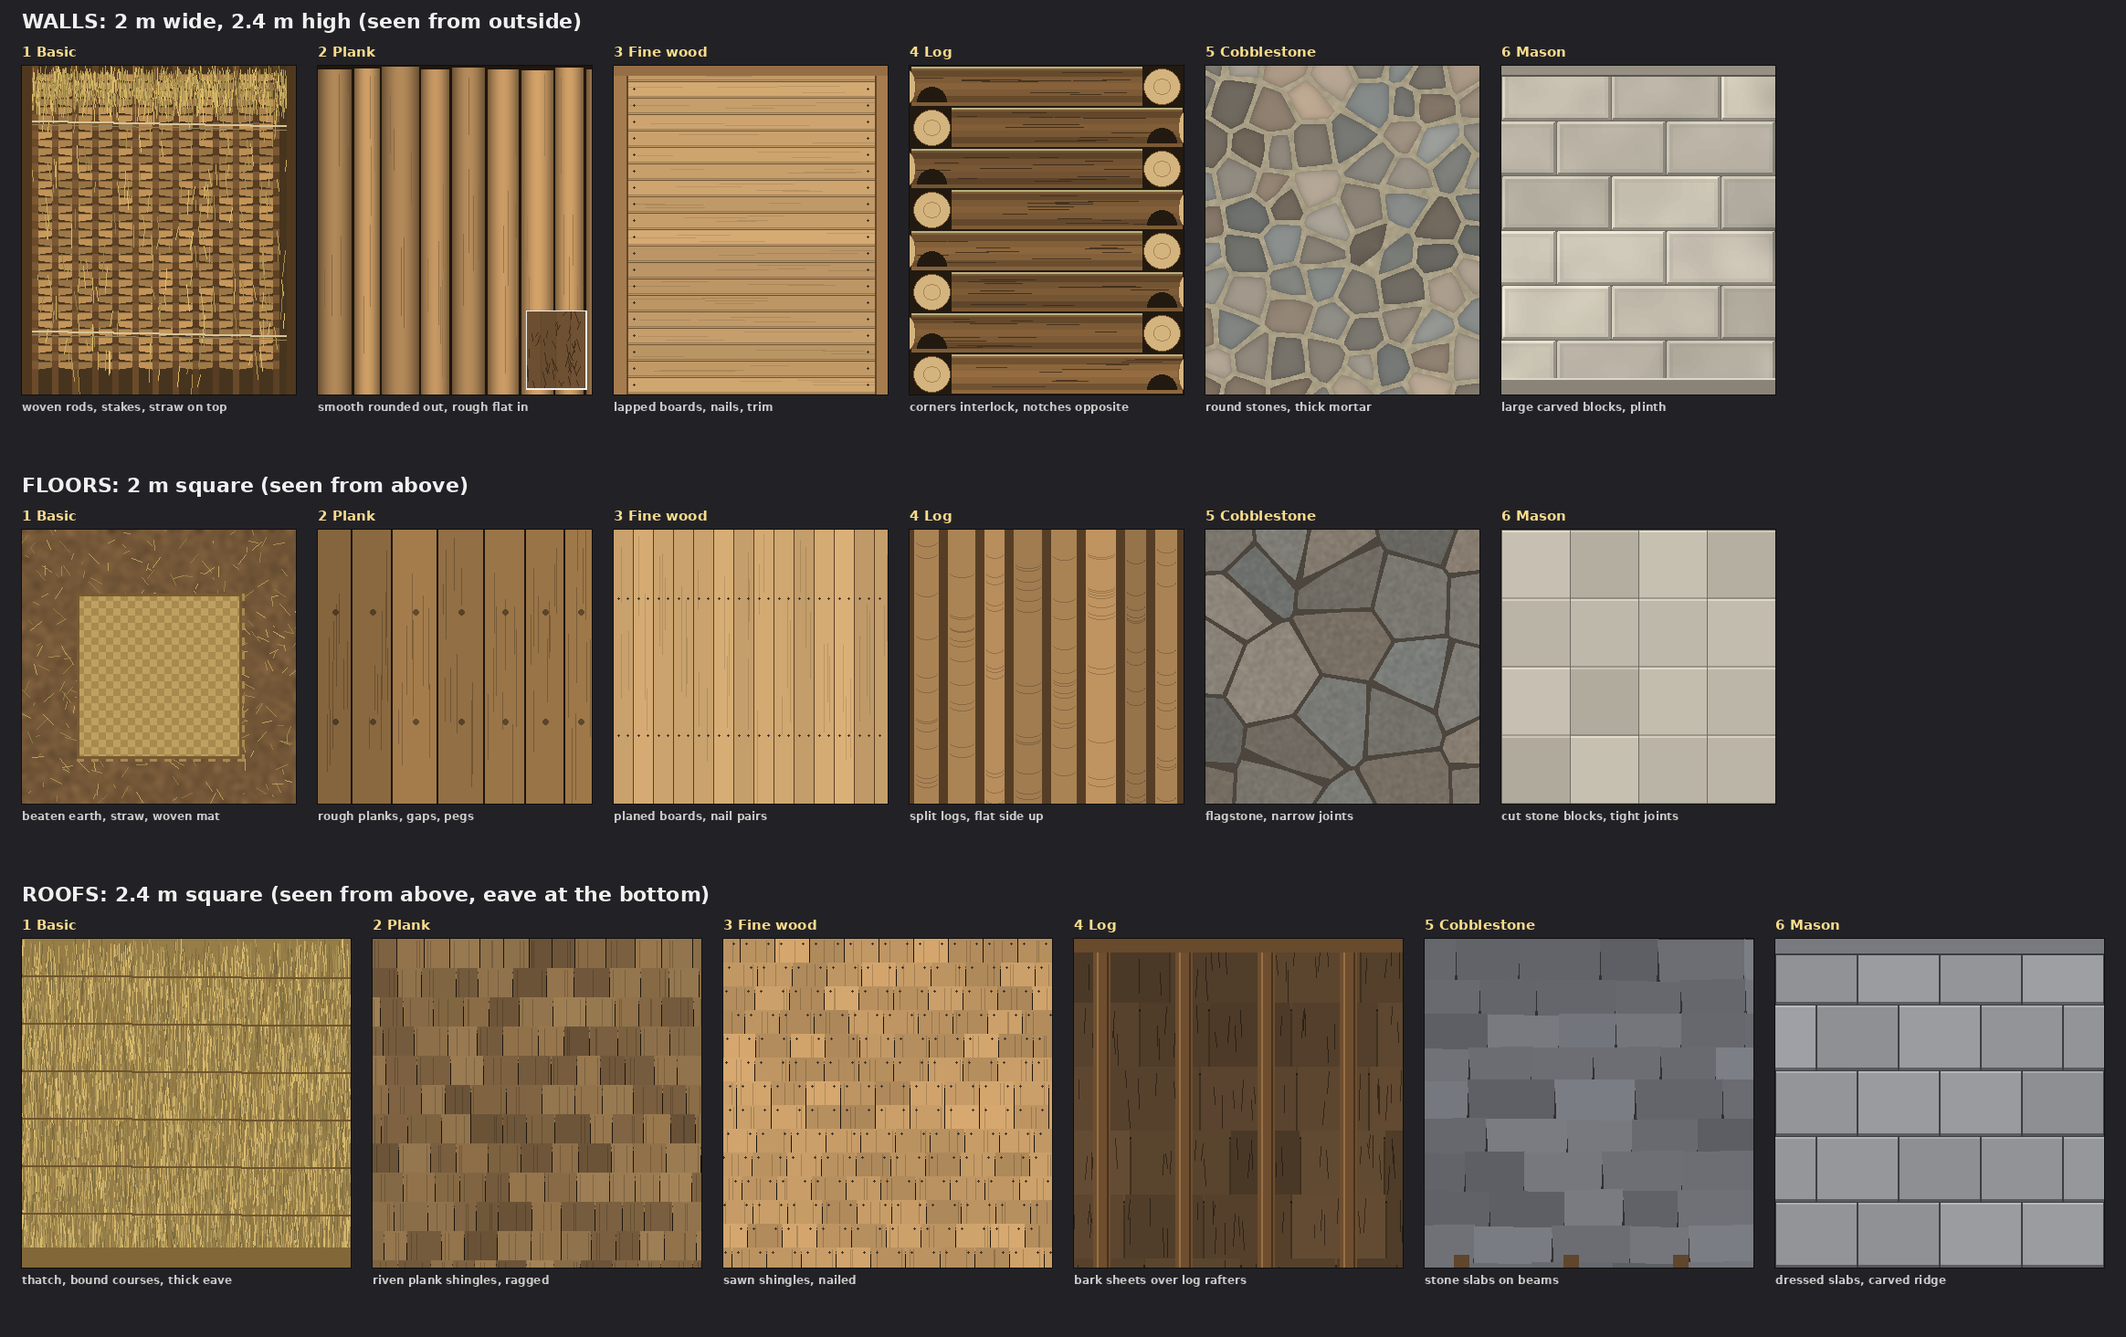
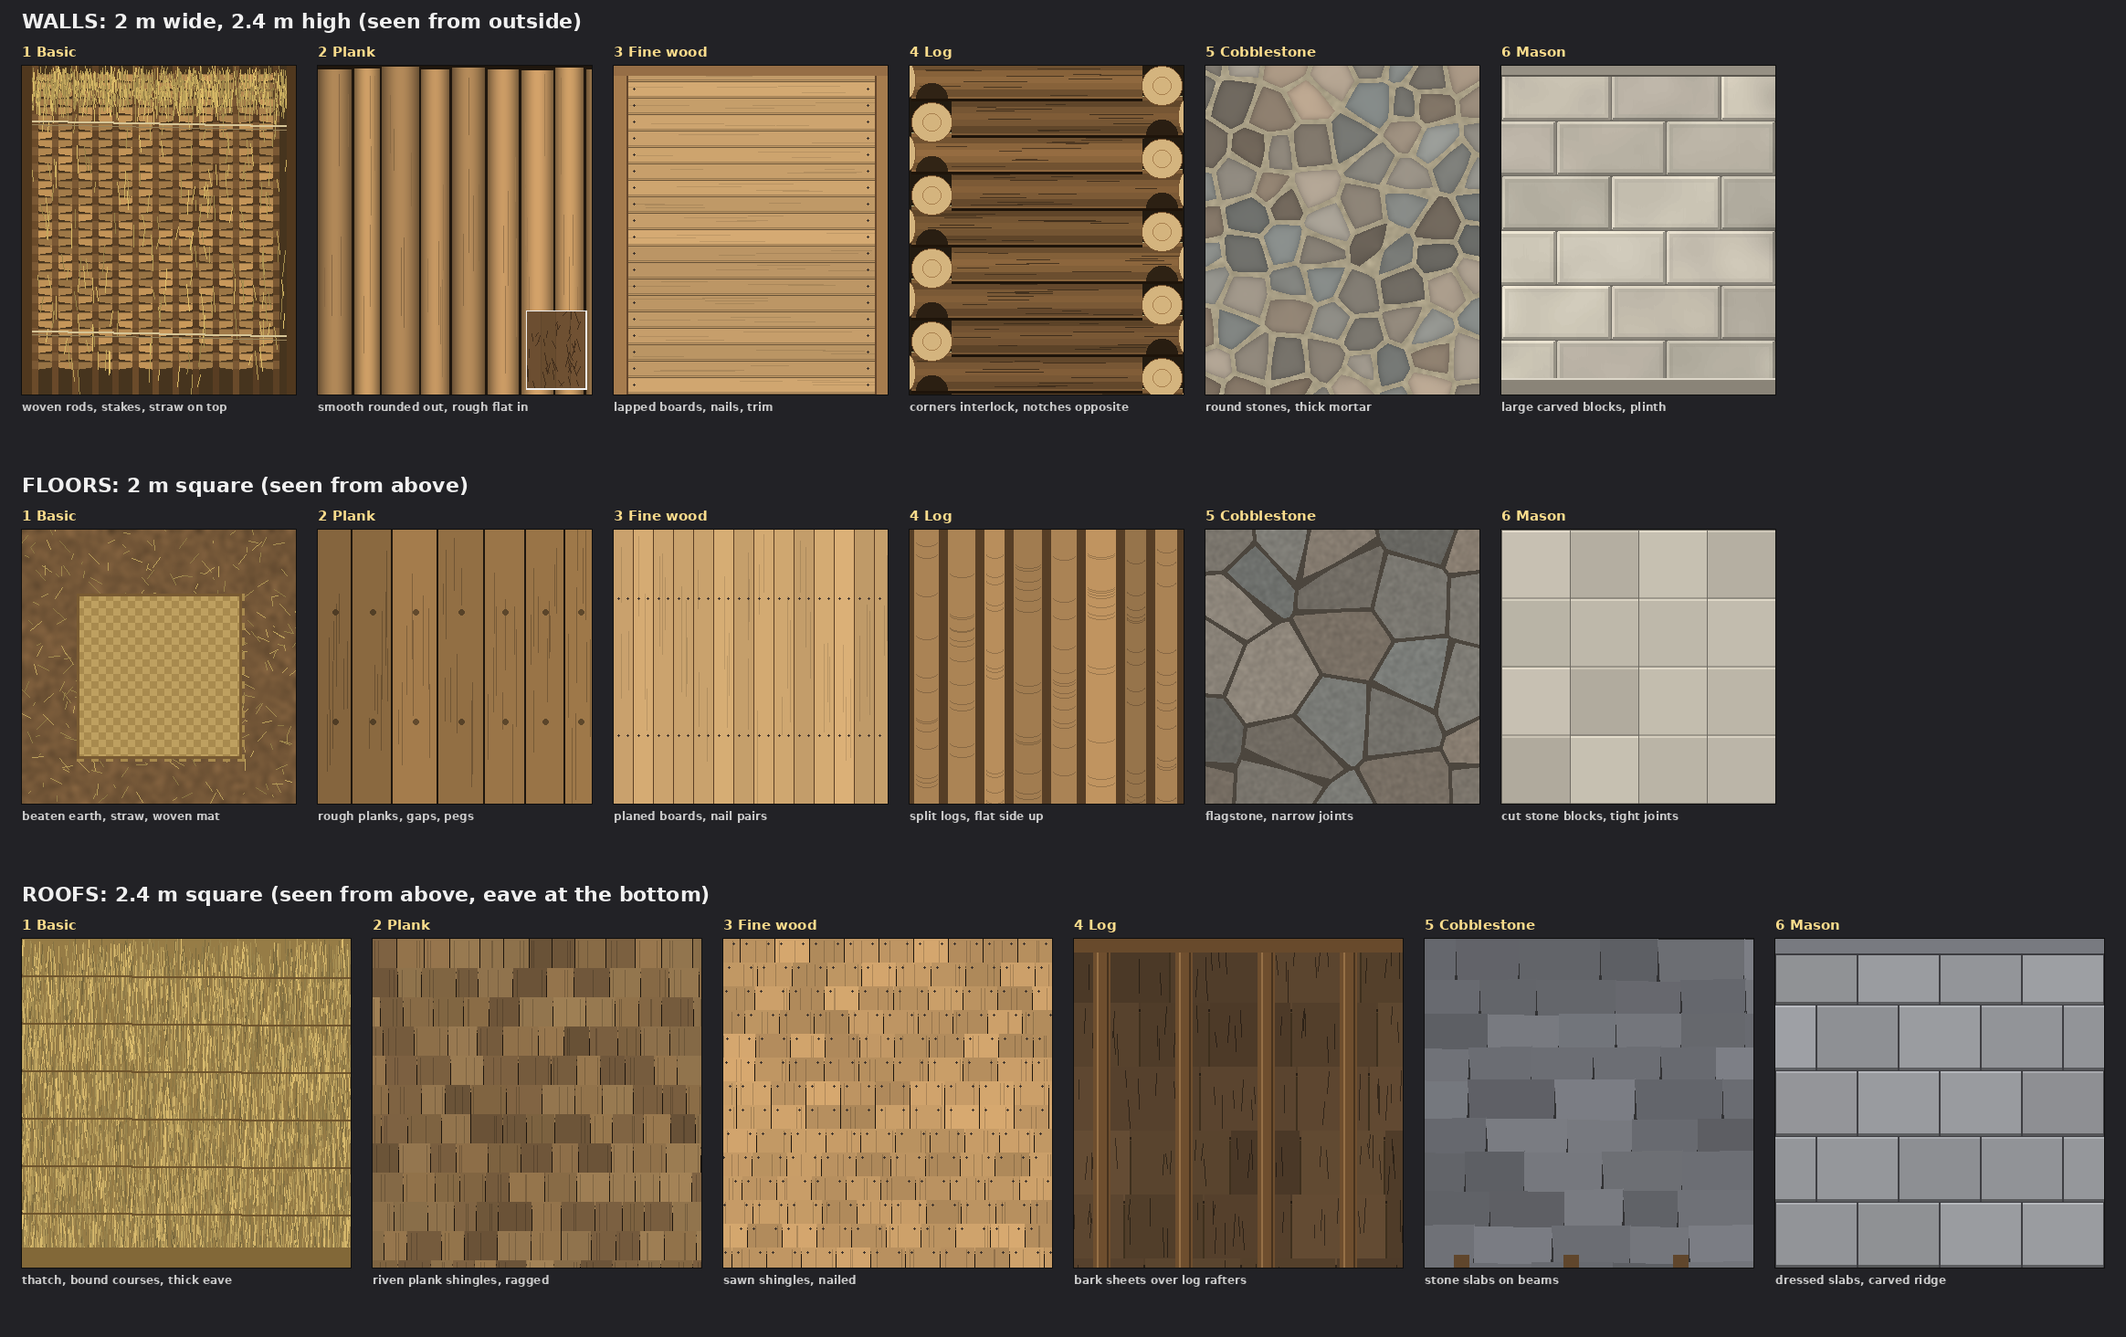
Designs round 3: log notches, door handles, ceilings, flat tarred roof, braces
Claude-Session: https://claude.ai/code/session_01CZx7jASx6pGZ8KWpdsaQti

Changed region(s): [[0.4021, 0.0307, 0.5567, 0.3074]]

diff --git a/tools/design_tiers.py b/tools/design_tiers.py
@@ -166,23 +166,26 @@ def log_row(d, rng, x0, x1, y, dia, bark):
 
 
 def wall_log(rng):
-    """Saddle-notched corners. Rows alternate: where this wall's log runs through (sticking out, with a saddle notch cut underneath) the other wall's
-    log end shows as a circle on the opposite course. The two ends of the wall are opposite: left runs through on even rows, right on odd rows."""
+    """A real log-cabin corner (round saddle notch): every log is rounder than the row it sits in, so it overlaps the row below by 10 cm and its
+    underside is cut away (the saddle) where the crossing log lies. Rows alternate: where this wall's log runs through and sticks out, the other
+    wall's log shows end-on (circle) on the next course, tucked up into the notch. The two ends of a wall are opposite."""
     w, h = WALL
     img = canvas((w, h), (34, 26, 16))
     d = ImageDraw.Draw(img)
-    dia = 45
+    step, dia = 40, 47
+    n = h // step + 1
     end = (212, 180, 126)
 
-    for i in range(h // dia + 1):
-        y = i * dia
+    for i in range(n - 1, -1, -1):           # bottom row first, so each log lies over the one below
+        y = i * step - 8
         bark = tint((132, 96, 58), rng.uniform(0.85, 1.1))
         left_through = i % 2 == 0
         right_through = not left_through
         x0 = 2 if left_through else 46
         x1 = w - 2 if right_through else w - 46
         log_row(d, rng, x0, x1, y, dia, bark)
-        d.line([(x0, y + 1), (x1, y + 1)], fill=(184, 176, 128), width=2)       # chinking between the logs
+        d.line([(x0, y + dia - 2), (x1, y + dia - 2)], fill=(30, 20, 10), width=3)               # the dark line where this log lies on the one below
+        d.line([(x0, y + 1), (x1, y + 1)], fill=(184, 176, 128), width=1)
 
         for side, through in ((0, left_through), (1, right_through)):
             cx = 24 if side == 0 else w - 24
@@ -190,10 +193,10 @@ def wall_log(rng):
 
             if through:
                 d.ellipse([ex - 10 if side == 0 else ex - 4, y + 5, ex + 4 if side == 0 else ex + 10, y + dia - 5], fill=end, outline=(120, 84, 48))
-                d.pieslice([cx - 16, y + dia - 22, cx + 16, y + dia + 10], 180, 360, fill=(34, 26, 16))      # the saddle notch cut underneath
+                d.pieslice([cx - 17, y + dia - 20, cx + 17, y + dia + 12], 180, 360, fill=tint(bark, 0.35))              # the saddle notch under the log
             else:
-                d.ellipse([cx - 20, y + 3, cx + 20, y + dia - 3], fill=end, outline=(120, 84, 48))        # the other wall's log end, seen end-on
-                d.ellipse([cx - 9, y + 14, cx + 9, y + dia - 14], outline=(170, 130, 80))                 # growth rings
+                d.ellipse([cx - 22, y + 8, cx + 22, y + dia + 4], fill=end, outline=(120, 84, 48))                      # the other wall's log end, tucked into the notch
+                d.ellipse([cx - 10, y + 20, cx + 10, y + dia - 8], outline=(170, 130, 80))                              # growth rings
 
     return img
 
@@ -557,6 +560,13 @@ def door_planks(d, w, h, rng, col, battens=True):
             d.rectangle([0, y, w, y + 16], fill=tint(col, 0.7))
 
 
+def handle(d, x, y, col=(70, 70, 76)):
+    """A bar pull handle (not a knob): a vertical steel bar on two small posts."""
+    d.rectangle([x, y - 22, x + 5, y + 22], fill=col, outline=(20, 20, 20))
+    d.rectangle([x - 5, y - 20, x, y - 15], fill=tint(col, 0.7))
+    d.rectangle([x - 5, y + 15, x, y + 20], fill=tint(col, 0.7))
+
+
 def door_basic(rng):
     w, h = DOOR
     img = canvas((w, h), (70, 52, 30))
@@ -574,7 +584,6 @@ def door_basic(rng):
 
     d.line([(0, 40), (w, 52)], fill=(216, 198, 150), width=3)             # twine ties
     d.line([(0, h - 60), (w, h - 50)], fill=(216, 198, 150), width=3)
-    d.ellipse([w - 28, h // 2, w - 16, h // 2 + 12], fill=(216, 198, 150), outline=(130, 110, 70))   # a twine loop for a handle
     d.rectangle([0, 0, 5, h], fill=(90, 62, 36))
     d.rectangle([w - 5, 0, w, h], fill=(90, 62, 36))
     return img
@@ -602,7 +611,7 @@ def door_reinforced(rng):
         for x in range(10, w, 22):
             d.ellipse([x - 2, y + 5, x + 2, y + 9], fill=(130, 130, 136))
 
-    d.ellipse([w - 30, h // 2 - 6, w - 18, h // 2 + 6], fill=(50, 50, 54), outline=(120, 120, 126))   # ring handle
+    handle(d, w - 26, h // 2)
     return img
 
 
@@ -625,7 +634,7 @@ def door_wrought(rng):
             for y in (top, top + 70):
                 d.ellipse([x, y, x + 6, y + 6], fill=(150, 150, 156))
 
-    d.ellipse([w - 34, h // 2 - 8, w - 16, h // 2 + 8], fill=(36, 36, 40), outline=(150, 150, 156), width=2)
+    handle(d, w - 28, h // 2, (150, 150, 156))
     return img
 
 
@@ -646,19 +655,18 @@ def door_steel(rng):
             for y in (top + 10, top + 108):
                 d.ellipse([x, y, x + 8, y + 8], fill=(220, 226, 236), outline=(60, 60, 66))
 
-    d.rectangle([0, h // 2 - 8, w, h // 2 + 8], fill=(58, 58, 64))      # iron crossband
-    d.ellipse([w - 36, h // 2 - 10, w - 14, h // 2 + 10], fill=(200, 160, 60), outline=(60, 60, 66), width=2)   # a brass handle
+    handle(d, w - 28, h // 2, (230, 234, 242))                              # a steel pull handle
     return img
 
 
 def door_double(rng):
-    """A double door in a full 2 m x 2.4 m wall slot: each edge 10 cm short of the slot all round (a visible gap), so the leaves are 1.8 m wide and 2.2 m high."""
+    """A double door in a full 2 m x 2.4 m wall slot: 10 cm clear at the top and both sides; the leaves reach the floor (no bottom gap). 1.8 m wide, 2.3 m high."""
     sw, sh = 2 * PPM, int(2.4 * PPM)
     img = canvas((sw, sh), (96, 70, 44))                        # the wall around it
     g = int(0.1 * PPM)
-    leaf_w, leaf_h = (sw - 2 * g) // 2, sh - 2 * g
+    leaf_w, leaf_h = (sw - 2 * g) // 2, sh - g
     d = ImageDraw.Draw(img)
-    d.rectangle([g - 3, g - 3, sw - g + 3, sh - g + 3], fill=(12, 10, 8))                # the 10 cm gap: dark around the leaves
+    d.rectangle([g - 3, g - 3, sw - g + 3, sh], fill=(12, 10, 8))                       # the 10 cm gap: dark above and beside the leaves
 
     for k in range(2):
         leaf = Image.new("RGB", (leaf_w, leaf_h), (30, 22, 14))
@@ -674,9 +682,9 @@ def door_double(rng):
         img.paste(leaf, (g + k * leaf_w, g))
 
     d = ImageDraw.Draw(img)
-    d.line([(sw // 2, g), (sw // 2, sh - g)], fill=(10, 8, 6), width=3)                 # the 3 mm seam between the leaves is drawn heavier so it shows
-    d.ellipse([sw // 2 - 22, sh // 2 - 6, sw // 2 - 10, sh // 2 + 6], fill=(50, 50, 54), outline=(120, 120, 126))
-    d.ellipse([sw // 2 + 10, sh // 2 - 6, sw // 2 + 22, sh // 2 + 6], fill=(50, 50, 54), outline=(120, 120, 126))
+    d.line([(sw // 2, g), (sw // 2, sh)], fill=(10, 8, 6), width=3)
+    handle(d, sw // 2 - 16, sh // 2)
+    handle(d, sw // 2 + 8, sh // 2)
     return img
 
 
@@ -713,14 +721,14 @@ def window_double(rng):
 def doors_sheet(out):
     gap = 24
     items = [("1 Basic door", door_basic, "hurdle, thatch, twine"), ("2 Plank door", door_plank, "planks, battens"), ("3 Reinforced", door_reinforced, "iron bands, rivets"),
-             ("4 Wrought iron", door_wrought, "iron frame, bars"), ("5 Steel and iron", door_steel, "steel panels, brass"),
-             ("Double door", door_double, "slot 2 x 2.4 m, 10 cm gap all round"), ("Window", window_single, "just a hole, no frame"), ("Wide window", window_double, "a wider hole, 2 m slot")]
+             ("4 Wrought iron", door_wrought, "iron frame, bars"), ("5 Steel and iron", door_steel, "steel panels, steel handle"),
+             ("Double door", door_double, "10 cm gap top and sides, to the floor"), ("Window", window_single, "just a hole, no frame"), ("Wide window", window_double, "a wider hole, 2 m slot")]
     sizes = [DOOR, DOOR, DOOR, DOOR, DOOR, (2 * DOOR[0], int(2.4 * PPM)), DOOR, (2 * DOOR[0], DOOR[1])]
     w = sum(s[0] for s in sizes) + gap * (len(items) + 1)
     h = 72 + int(2.4 * PPM) + 40 + gap
     img = canvas((w, h), (34, 34, 38))
     d = ImageDraw.Draw(img)
-    d.text((gap, 10), "DOORS AND WINDOWS: door 1 m x 2 m; double door fills a 2 x 2.4 m slot less a 10 cm gap all round; windows are holes", fill=(240, 240, 240), font=font(22))
+    d.text((gap, 10), "DOORS AND WINDOWS: door 1 m x 2 m; double door fills a 2 x 2.4 m slot, 10 cm gap top and sides; windows are holes", fill=(240, 240, 240), font=font(22))
     x = gap
 
     for (name, make, note), size in zip(items, sizes):
@@ -814,6 +822,147 @@ def roof_pieces(out):
     img.save(out)
 
 
+# ---------------------------------------------------------------- ceilings (seen from below), flat tarred roof, braces
+def ceil_basic(rng):
+    w, h = FLOOR
+    img = canvas((w, h), (62, 46, 28))
+    d = ImageDraw.Draw(img)
+
+    for x in range(20, w, 50):               # round pole rafters
+        d.rectangle([x - 7, 0, x + 7, h], fill=(110, 78, 46), outline=(60, 40, 22))
+
+    for _ in range(1800):                    # straw and thatch showing between them
+        x, y = int(rng.integers(0, w)), int(rng.integers(0, h))
+        d.line([(x, y), (x + int(rng.integers(-3, 4)), y + int(rng.integers(8, 20)))], fill=tint((200, 170, 96), rng.uniform(0.6, 1.0)), width=1)
+
+    return img
+
+
+def ceil_plank(rng):
+    img = floor_plank(rng)
+    d = ImageDraw.Draw(img)
+
+    for y in (60, 240):                      # a rough beam each way
+        d.rectangle([0, y, FLOOR[0], y + 22], fill=(96, 68, 40), outline=(50, 34, 20))
+
+    return img
+
+
+def ceil_fine(rng):
+    img = floor_fine(rng)
+    d = ImageDraw.Draw(img)
+
+    for y in (0, 138):
+        d.rectangle([0, y, FLOOR[0], y + 24], fill=(150, 112, 70), outline=(100, 70, 44))
+
+    return img
+
+
+def ceil_log(rng):
+    w, h = FLOOR
+    img = canvas((w, h), (40, 28, 16))
+    d = ImageDraw.Draw(img)
+
+    for x in range(0, w, 40):                # round log joists with the planks laid across
+        d.rectangle([x + 2, 0, x + 38, h], fill=tint((130, 94, 56), rng.uniform(0.85, 1.1)), outline=(60, 40, 22))
+        d.line([(x + 12, 0), (x + 12, h)], fill=(160, 120, 76), width=2)
+
+    return img
+
+
+def ceil_cobble(rng):
+    w, h = FLOOR
+    img = canvas((w, h), (50, 36, 22))
+    d = ImageDraw.Draw(img)
+    x = 0
+
+    while x < w:                             # heavy squared beams close together with a plank between
+        bw = 56
+        d.rectangle([x, 0, x + bw, h], fill=tint((112, 82, 50), rng.uniform(0.9, 1.08)), outline=(50, 34, 20))
+        d.rectangle([x + bw, 0, x + bw + 14, h], fill=(150, 116, 74))
+        x += bw + 14
+
+    return img
+
+
+def ceil_mason(rng):
+    w, h = FLOOR
+    img = canvas((w, h), (110, 106, 98))
+    d = ImageDraw.Draw(img)
+    s2 = 75
+
+    for j in range(0, h, s2):
+        for i in range(0, w, s2):
+            col = tint((190, 184, 170), rng.uniform(0.94, 1.06))
+            d.rectangle([i + 4, j + 4, i + s2 - 4, j + s2 - 4], fill=col)                  # coffered panels
+            d.rectangle([i + 14, j + 14, i + s2 - 14, j + s2 - 14], fill=tint(col, 0.9), outline=tint(col, 0.7))
+
+    return img
+
+
+def roof_tar(rng):
+    """A flat roof (1 in 15 fall) of boards covered in tar: black, slightly glossy, seams, streaks, a raised lip round the edge."""
+    w, h = ROOF
+    img = canvas((w, h), (24, 24, 26))
+    d = ImageDraw.Draw(img)
+    a = np.asarray(img, dtype=np.float32) * (0.8 + 0.5 * noise(rng, w, h, 5))[..., None]
+    img = Image.fromarray(np.clip(a, 0, 255).astype(np.uint8))
+    d = ImageDraw.Draw(img)
+
+    for x in range(0, w, 60):                # the board seams show through
+        d.line([(x, 0), (x, h)], fill=(10, 10, 12), width=2)
+
+    for _ in range(10):                      # tar streaks running to the low edge
+        x = int(rng.integers(8, w - 8))
+        y = int(rng.integers(0, h - 140))
+        d.line([(x, y), (x + int(rng.integers(-5, 6)), y + int(rng.integers(60, 140)))], fill=(48, 48, 54), width=int(rng.integers(2, 5)))
+
+    d.rectangle([0, 0, w - 1, h - 1], outline=(60, 60, 66), width=10)         # the raised lip
+    d.line([(10, 10), (w - 10, 10)], fill=(90, 90, 98), width=2)
+    return img
+
+
+def braces(out):
+    """Tunnel and cellar braces (timber sets) in three widths: 1.5, 3 and 5 m; front view, 60 px per metre, 2.4 m high, with a side view of the lagging."""
+    k = 60
+    img = canvas((1100, 560), (34, 34, 38))
+    d = ImageDraw.Draw(img)
+    d.text((24, 10), "BRACES: three widths, front view (60 px = 1 m, 2.4 m high)", fill=(240, 240, 240), font=font(22))
+    wood = (150, 110, 68)
+    dark = (96, 68, 40)
+    x = 40
+
+    for wd, post, cap, label, note in ((1.5, 0.18, 0.2, "small 1.5 m", "two posts, cap beam"), (3.0, 0.24, 0.26, "medium 3 m", "posts, cap beam, corner braces"),
+                                       (5.0, 0.3, 0.34, "large 5 m", "thick posts, double cap beam, corner braces, centre prop")):
+        top, bot = 90, 90 + int(2.4 * k)
+        wpx = int(wd * k)
+        d.rectangle([x, top, x + wpx, bot], fill=(40, 34, 28))                                      # the dark opening behind
+        d.rectangle([x, top, x + int(post * k), bot], fill=wood, outline=(40, 26, 14))             # left post
+        d.rectangle([x + wpx - int(post * k), top, x + wpx, bot], fill=wood, outline=(40, 26, 14))  # right post
+        d.rectangle([x - 6, top - int(cap * k), x + wpx + 6, top], fill=dark, outline=(40, 26, 14))   # cap beam
+
+        if wd >= 5.0:
+            d.rectangle([x - 6, top - int(cap * k) * 2, x + wpx + 6, top - int(cap * k)], fill=wood, outline=(40, 26, 14))     # a second cap beam
+
+        if wd >= 3.0:
+            for sgn in (-1, 1):                                                                       # corner braces
+                cx = x + int(post * k) if sgn < 0 else x + wpx - int(post * k)
+                bl = int(0.7 * k)
+                pts = [(cx, top), (cx + sgn * -1 * bl, top), (cx, top + bl)] if sgn < 0 else [(cx, top), (cx - bl, top), (cx, top + bl)]
+                d.polygon([(cx, top), (cx + (bl if sgn < 0 else -bl), top), (cx, top + bl)], fill=wood, outline=(40, 26, 14))
+
+        if wd >= 5.0:
+            mx = x + wpx // 2
+            d.rectangle([mx - 8, top, mx + 8, bot], fill=wood, outline=(40, 26, 14))             # centre prop
+
+        d.text((x, bot + 12), label, fill=(250, 220, 140), font=font(14))
+        d.text((x, bot + 32), note, fill=(200, 200, 200), font=font(11))
+        x += wpx + 70
+
+    d.text((40, 470), "Behind the posts and over the cap beam: lagging (rough boards) holds the earth. Posts stand on the floor, cap beam carries the roof of the tunnel.", fill=(200, 200, 200), font=font(12))
+    img.save(out)
+
+
 # ---------------------------------------------------------------- sheets
 def font(size):
     for path in ("/usr/share/fonts/truetype/dejavu/DejaVuSans-Bold.ttf", "/usr/share/fonts/dejavu/DejaVuSans-Bold.ttf"):
@@ -887,6 +1036,10 @@ def main():
     doors_sheet(os.path.join(out, "tiers_doors.png"))
     log_corner(os.path.join(out, "tiers_log_corner.png"))
     roof_pieces(os.path.join(out, "tiers_roof_pieces.png"))
+    sheet("CEILINGS: 2 m square (seen from below, inside the room)", [ceil_basic, ceil_plank, ceil_fine, ceil_log, ceil_cobble, ceil_mason], FLOOR, os.path.join(out, "tiers_ceilings.png"),
+          ["pole rafters, straw between", "rough planks on beams", "planed boards on beams", "round log joists, planks", "heavy beams, planks between", "coffered dressed stone"])
+    sheet("FLAT ROOF: 2.4 m square (seen from above)", [roof_tar], ROOF, os.path.join(out, "tiers_flat_roof.png"), ["boards under black tar, raised lip"])
+    braces(os.path.join(out, "tiers_braces.png"))
     parts = [Image.open(os.path.join(out, n)) for n in ("tiers_walls.png", "tiers_floors.png", "tiers_roofs.png")]
     allimg = canvas((max(p.width for p in parts), sum(p.height for p in parts)), (34, 34, 38))
     y = 0

diff --git a/art/BUILDING_TIERS_LOOKS.md b/art/BUILDING_TIERS_LOOKS.md
@@ -53,3 +53,9 @@ Place and door sounds per tier: thatch (basic), board (plank, fine), log (new: d
 
 ## Door and window changes (Dave 23:01)
 Windows are just holes in the wall (no frame piece, no glass); shutters come later as separate hinged wood pieces. A double door sits in a full 2 x 2.4 m wall slot with 10 cm clear all round (leaves 1.8 m wide, 2.2 m high), like Ark. Picture tiers_doors.png redrawn.
+
+## Round 3 (Dave 23:40 to 00:00)
+- Log corners redrawn after a real log cabin: round saddle notch, each log overlaps the course below, the crossing log shows end-on tucked into the notch, opposite on the two ends (tiers_walls.png).
+- Double door: 10 cm gap at the top and sides only, leaves reach the floor. Handles are steel bar pulls, no knobs: basic door has no handle at all; steel door has a steel handle and no black crossband (tiers_doors.png).
+- Ceilings per tier (seen from below): tiers_ceilings.png. Flat tarred roof: tiers_flat_roof.png.
+- Braces in three widths, 1.5, 3 and 5 m: tiers_braces.png.
